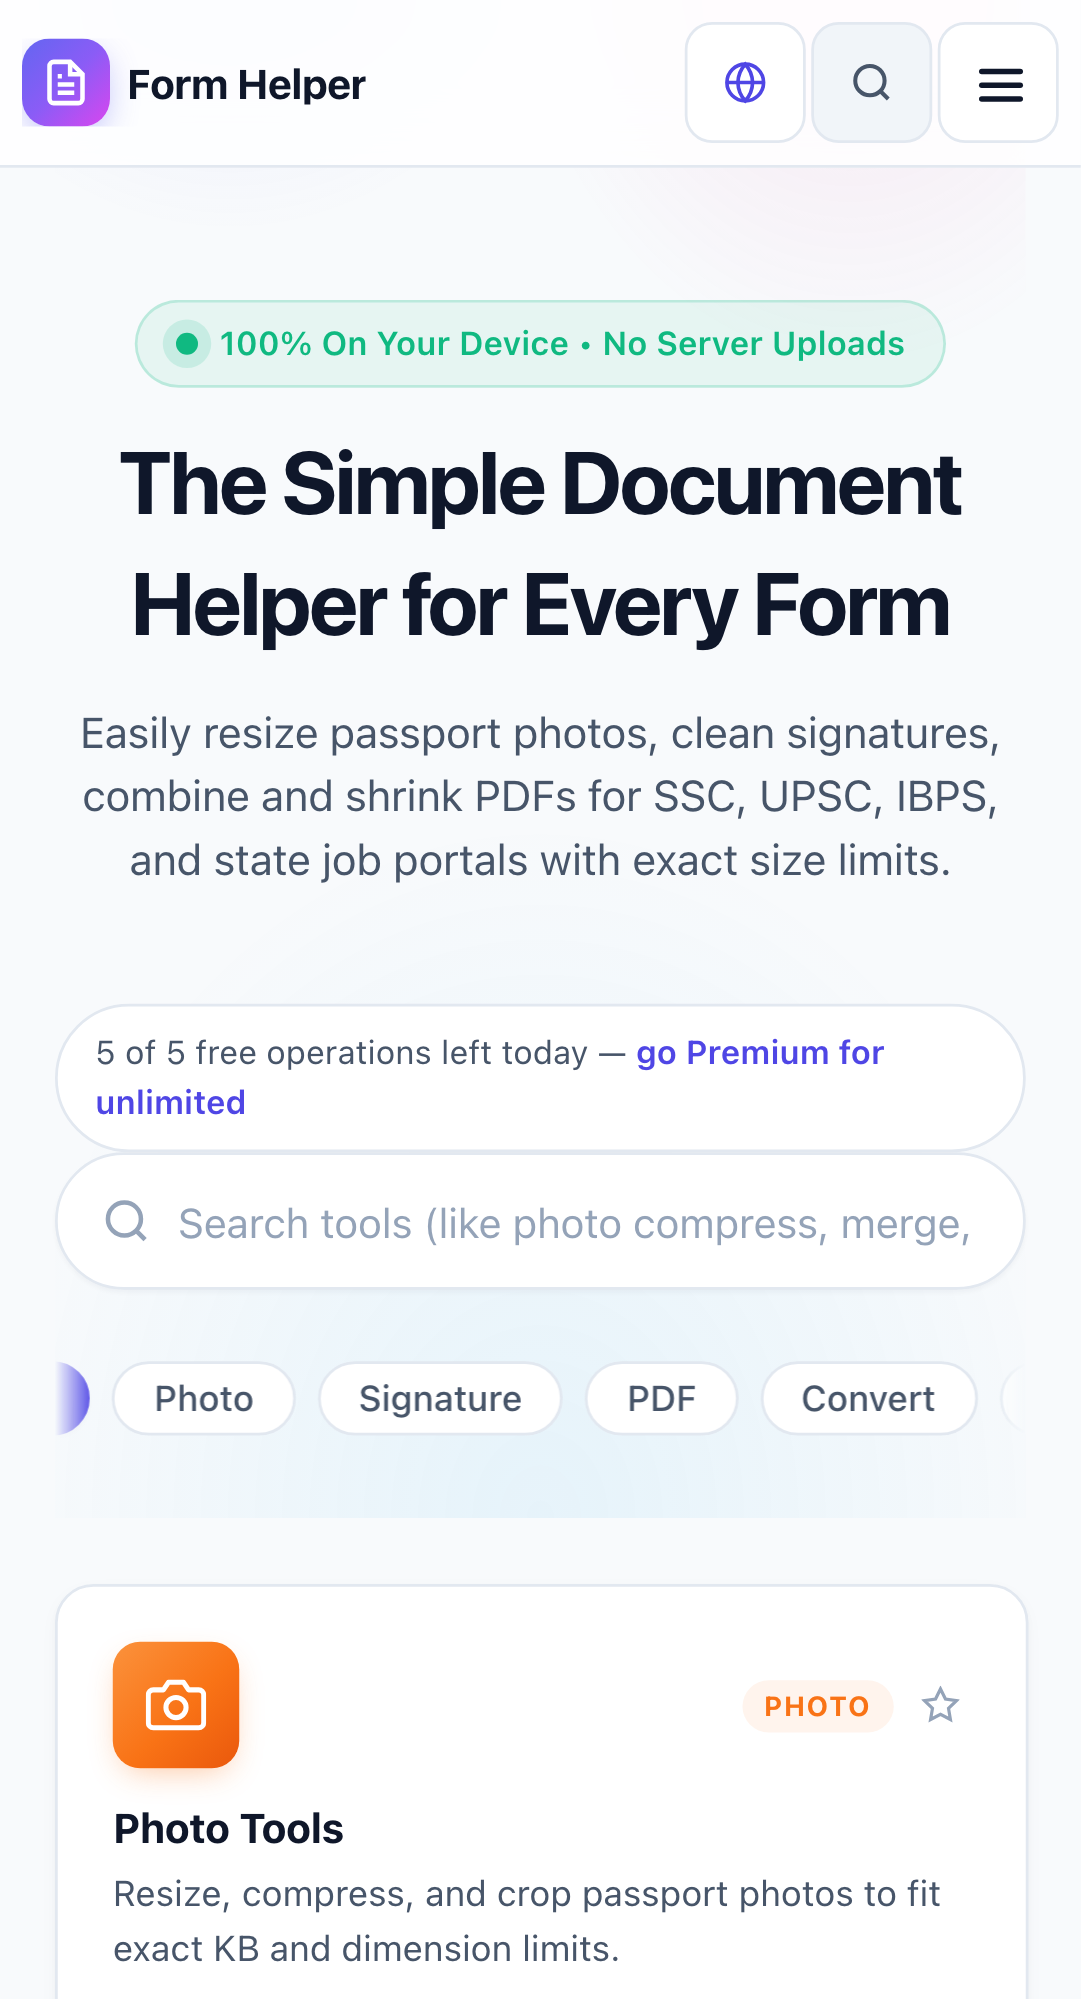
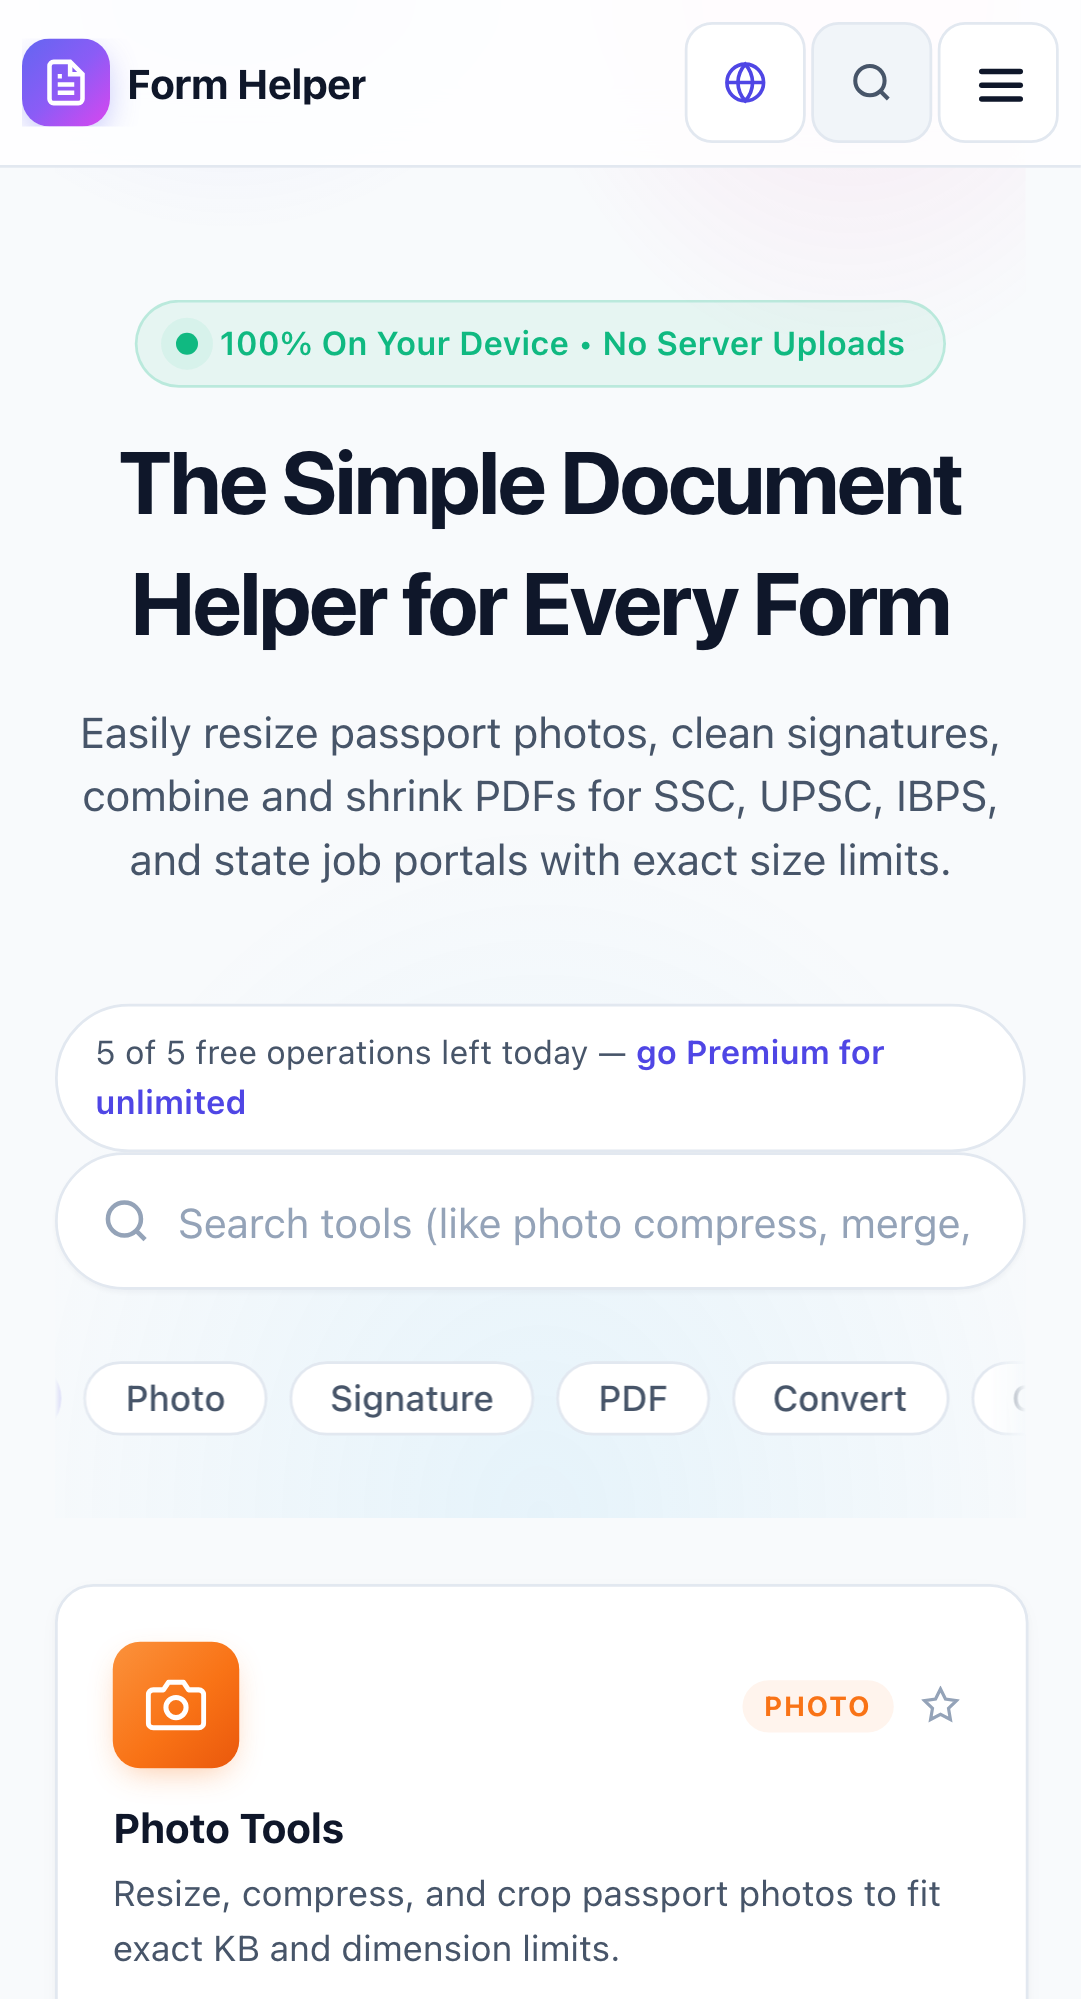
test: make the "clean" privacy fixture actually clean, and re-pin premium copy
The privacy sanitizer was reporting 4 items on privacy-clean.pdf and the test
read that as a scanner bug. It was not. pdf-lib stamps Producer, Creator,
CreationDate and ModDate on every document it creates, and the fixture
generator never cleared them -- so a file whose own drawn text claims "Clean
document without metadata" shipped with exactly four metadata entries. The
scanner had been right all along. Generating it with `updateMetadata: false`
makes the fixture match its name, and the report now reads 0.

The report text assertion also never matched the UI: the badge says "0 Privacy
Items Found" and the pattern required "items" to follow "0" directly.

premium-compliance asserted the "100% Ad-Free" benefit, which was removed
because the app ships no ad SDK. Updated to the replacement, plus an assertion
that no benefit may advertise the absence of ads again -- that copy
contradicts the privacy policy and the Data Safety answers, so it is worth a
test rather than a memory.

diff --git a/e2e/fixtures/generate-phase2-fixtures.js b/e2e/fixtures/generate-phase2-fixtures.js
@@ -131,11 +131,19 @@ async function generatePhase2Fixtures() {
   // ==========================================
 
   // A. Clean PDF
-  const docClean = await PDFDocument.create();
+  // `updateMetadata: false` is the whole point of this fixture. pdf-lib
+  // otherwise stamps Producer, Creator, CreationDate and ModDate on every
+  // document it creates, so the "clean" file arrived carrying exactly four
+  // metadata entries and the sanitizer -- correctly -- reported four privacy
+  // items on it. The scanner was never wrong; the fixture was.
+  const docClean = await PDFDocument.create({ updateMetadata: false });
   const pClean = docClean.addPage([595, 842]);
   const fClean = await docClean.embedFont(StandardFonts.Helvetica);
   pClean.drawText('Clean document without metadata, comments, or form fields.', { x: 50, y: 750, font: fClean, size: 14 });
-  fs.writeFileSync(path.join(targetDir, 'privacy-clean.pdf'), await docClean.save());
+  fs.writeFileSync(
+    path.join(targetDir, 'privacy-clean.pdf'),
+    await docClean.save({ updateFieldAppearances: false }),
+  );
 
   // B. Metadata PDF
   const docMeta = await PDFDocument.create();

diff --git a/e2e/release/premium-compliance.spec.ts b/e2e/release/premium-compliance.spec.ts
@@ -172,9 +172,17 @@ test.describe('Release — Premium & manual payment @release @premium', () => {
     await expect(page.getByRole('heading', { name: 'Premium Benefits' })).toBeVisible();
 
     const benefits = page.locator('.benefits-grid .benefit-item h4');
-    expect(await benefits.allTextContents()).toEqual(
-      expect.arrayContaining(['100% Ad-Free', 'Batch Processing']),
-    );
+    const titles = await benefits.allTextContents();
+    expect(titles).toEqual(expect.arrayContaining(['No Daily Limit', 'Batch Processing']));
+
+    /*
+     * Nothing here may sell the absence of advertising. The app ships no ad
+     * SDK and does not read the advertising identifier, so charging for
+     * "ad-free" would be selling something that does not exist -- and would
+     * contradict the privacy policy and the Data Safety answers that mirror
+     * it. This assertion is what stops that copy coming back.
+     */
+    expect(titles.join(' ')).not.toMatch(/ad[- ]?free|no ads/i);
   });
 
   test('PREM-004: the CTA names the amount, so nothing is hidden behind a tap', async ({ page }) => {

diff --git a/e2e/phase2/pdf-privacy-sanitizer/scan.spec.ts b/e2e/phase2/pdf-privacy-sanitizer/scan.spec.ts
@@ -31,7 +31,7 @@ test.describe('PDF Privacy Sanitizer — Privacy Scan @phase2 @privacy', () => {
 
     // Header badge shows 0 items found
     const reportHeader = page.locator('.scan-report-card .report-header');
-    await expect(reportHeader).toContainText(/0 items found|0 संवेदनशील आइटम/i);
+    await expect(reportHeader).toContainText(/0\s+(privacy\s+)?items\s+found|0 संवेदनशील आइटम/i);
 
     // Metadata status box should NOT have .alert class
     const metaBox = page.locator('.status-box').first();
